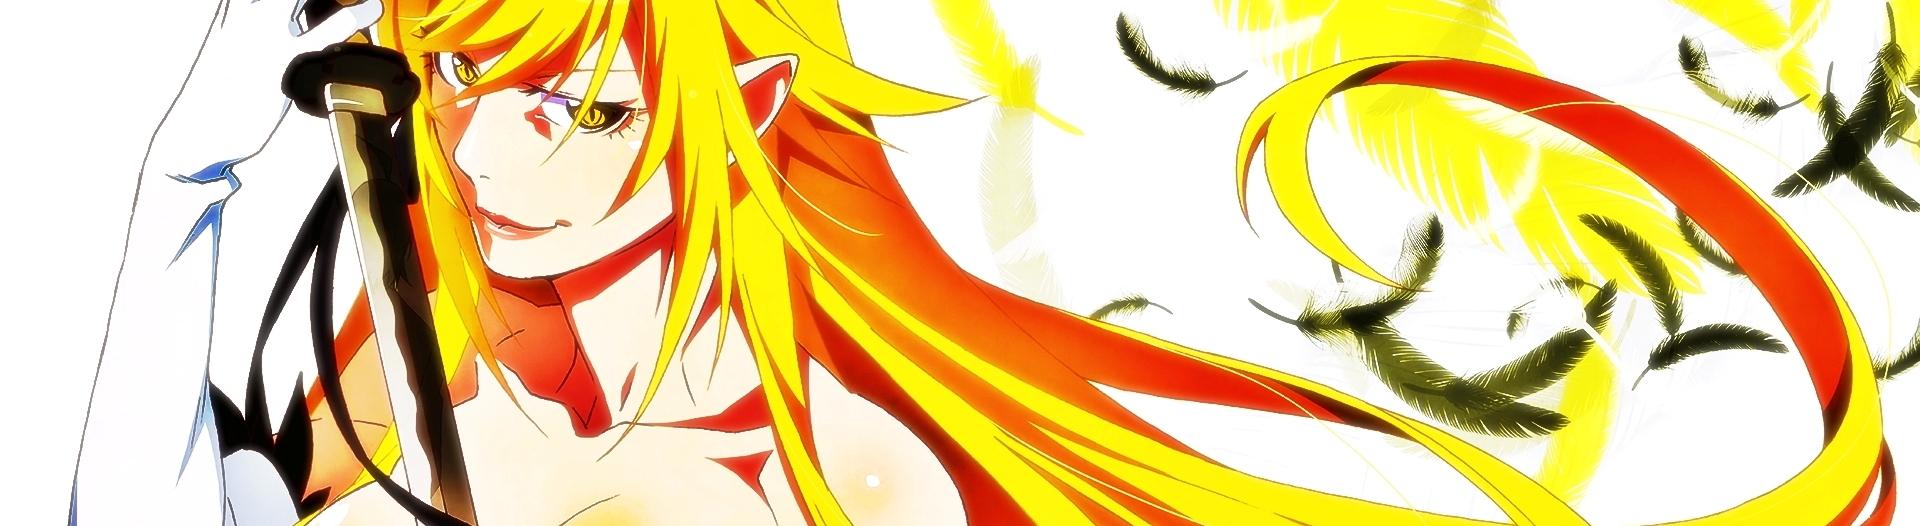
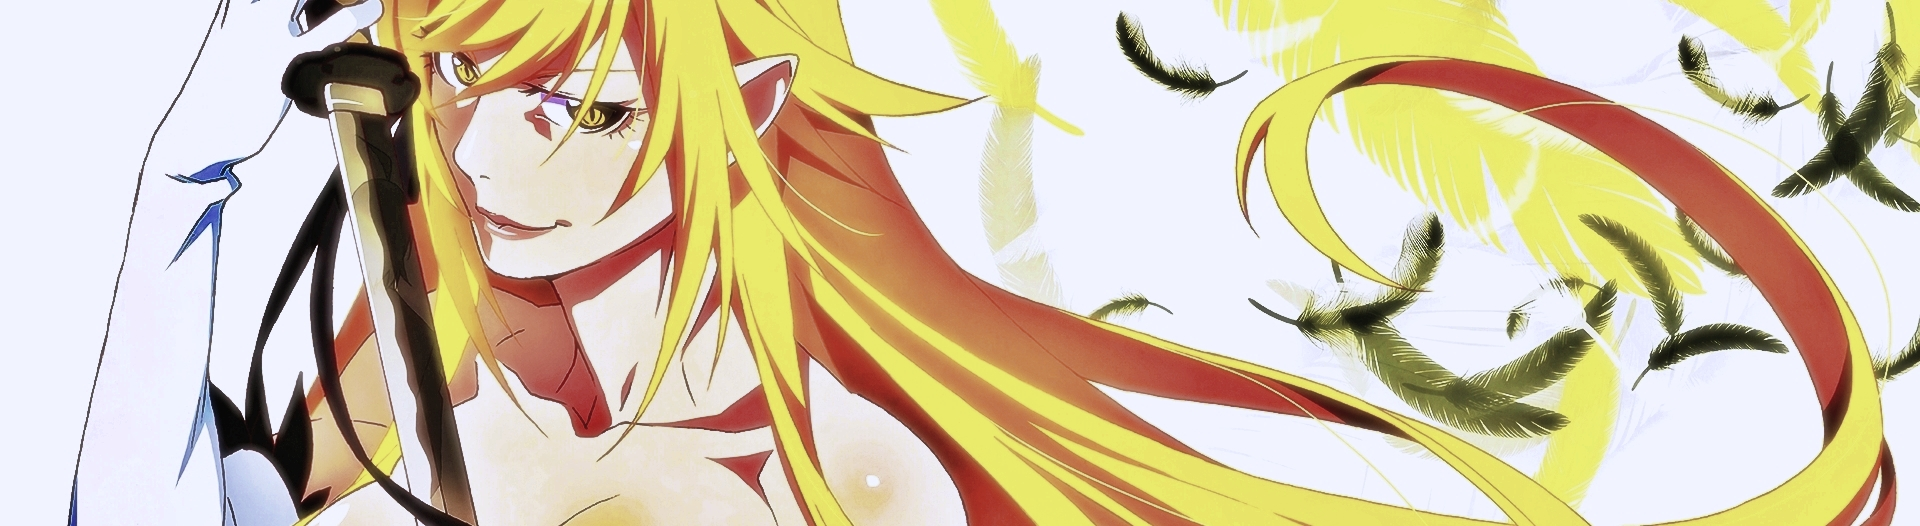
Cambios de estructura, optimizacion de etiquetas y cambios visuales

diff --git a/Series.html b/Series.html
@@ -9,11 +9,13 @@
     <header>
         <nav> 
             <ul>
-                <li><a href="inicio.html"><strong>Home</strong></a></li>
-                <li><a href="Series.html"><strong>Series</strong></a></li>
-                <li><a href="recomendados.html"><strong>Recomendados</strong></a></li>
-                <li><a href="Generos.html"><strong>Generos</strong></a></li>
-                <li><a href="Estrenos.html"><strong>Estrenos</strong></a></li>
+                <strong>
+                    <li><a href="inicio.html">Home</a></li>
+                    <li><a href="Series.html">Series</a></li>
+                    <li><a href="recomendados.html">Recomendados</a></li>
+                    <li><a href="Generos.html">Generos</a></li>
+                    <li><a href="Estrenos.html">Estrenos</a></li>
+                </strong>
             </ul>
         </nav>
     </header>

diff --git a/Style/style.css b/Style/style.css
@@ -28,11 +28,10 @@ section.am
 }
 body
 {
-    /*background-image: url("../Imagenes/Alters.jpg");
+    background-image: url("../Imagenes/Alters.jpg");
     background-attachment: fixed;
-    background-repeat: no-repeat;
-    background-position: center;*/ 
-    background: black;
+    background-position: center;
+    /*background: black;*/
 }
 header nav
 {
@@ -45,11 +44,14 @@ header nav ul
 header nav ul li
 {
     display: inline-block;
-    padding: 0em 1em 2em 1em;
+    margin: 19em 0em 0em 0em;
+    padding: 0em 1em 0em 1em;
+    background: black;
 }
 header nav ul li a
 {
     padding: 0em 5em 0em 5em;
+    color: yellow;
 }
 section img
 {
